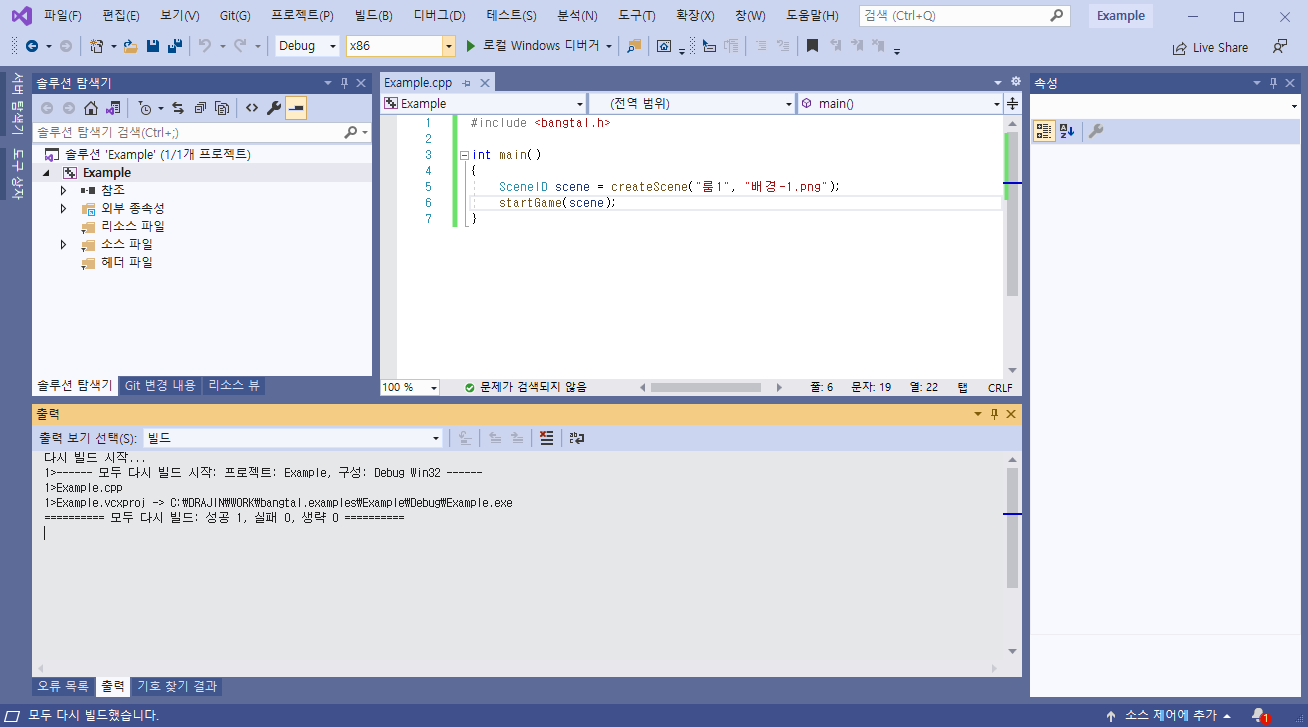
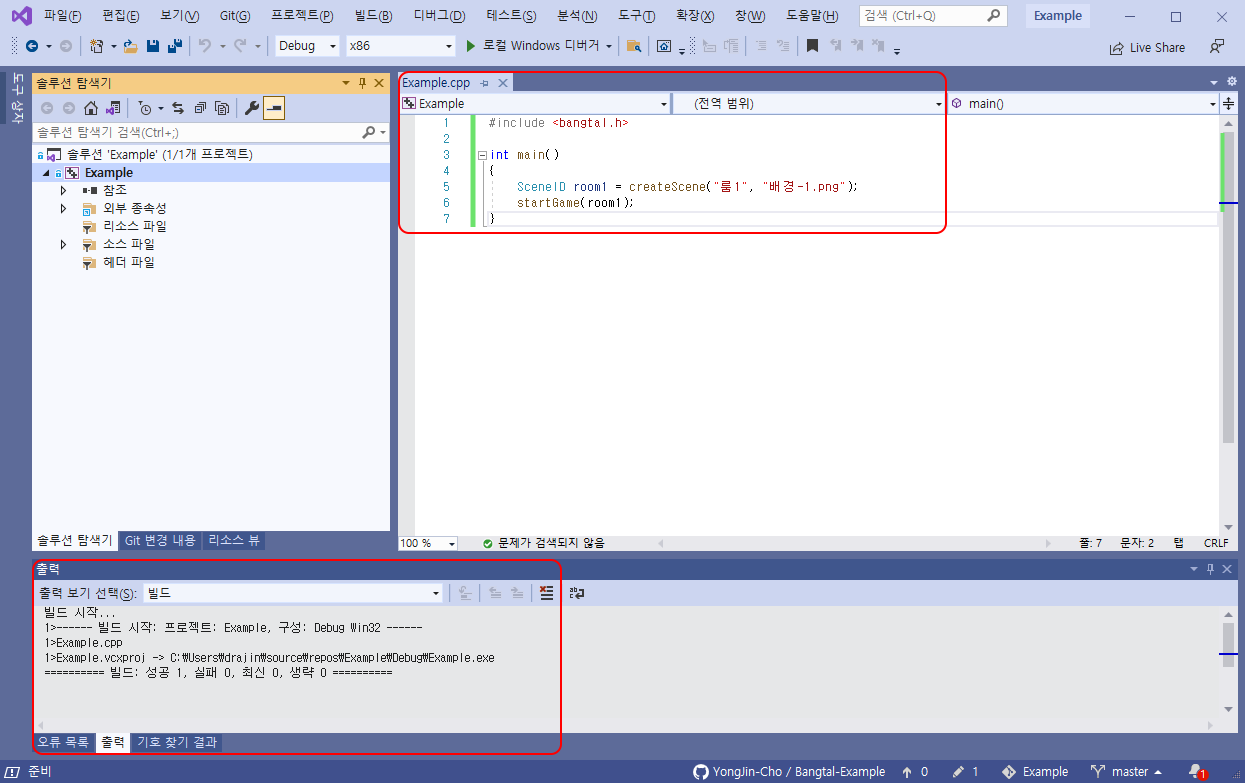
Visual Studio와 GitHub 연동하기 포스트

diff --git a/index.html b/index.html
@@ -1,6 +1,7 @@
 ---
 layout: splash
-permalink: /
+#permalink: /
+#permalink가 설정되어 있으면 paginate가 동작하지 않는다.
 header:
   overlay_color: "#000066" # "#5e616c"
   overlay_image: /assets/images/home_background.png
@@ -52,3 +53,35 @@ quick_guides:
     url: "/docs/example-tetris/"
 ---
 {% include feature_row id="quick_guides" %}
+
+
+
+<!-- This loops through the paginated posts -->
+{% for post in paginator.posts %}
+  <h1><a href="{{ post.url }}">{{ post.title }}</a></h1>
+  <p class="author">
+    <span class="date">{{ post.date }}</span>
+  </p>
+  <div class="content">
+    {{ post.content }}
+  </div>
+{% endfor %}
+
+<!-- Pagination links -->
+<div class="pagination">
+  {% if paginator.previous_page %}
+    <a href="{{ paginator.previous_page_path }}" class="previous">
+      Previous
+    </a>
+  {% else %}
+    <span class="previous">Previous</span>
+  {% endif %}
+  <span class="page_number ">
+    Page: {{ paginator.page }} of {{ paginator.total_pages }}
+  </span>
+  {% if paginator.next_page %}
+    <a href="{{ paginator.next_page_path }}" class="next">Next</a>
+  {% else %}
+    <span class="next ">Next</span>
+  {% endif %}
+</div>

diff --git a/_posts/2021-03-03-visual-studio-github-connect.md b/_posts/2021-03-03-visual-studio-github-connect.md
@@ -1,0 +1,83 @@
+---
+title: "Visual Studio에서 GitHub 연동하기"
+permalink: /posts/visual-studio-github-connect/
+date: "2021-03-03 20:20:16 +0900"
+categories:
+  - git
+---
+Visual Studio에서 GitHub와 연동해서 저장소를 관리할 수 있다.
+
+## 프로젝트 생성하기
+Visual Studio의 프로젝트 템플릿에서 콘솔 앱을 선택해서 프로젝트를 생성한다.
+<figure>
+  <a href="/assets/images/visual_studio_create_project.png">
+  <img src="/assets/images/visual_studio_create_project.png" alt="콘솔 앱으로 프로젝트 생성하기"></a>
+</figure>
+
+## GitHub와 연결하기
+Visual Studio 오른쪽 아래 "소스 제어에 추가" 메뉴가 있다. "Git(G)"을 선택해서 Git 서비스에 연동한다.
+<figure>
+  <a href="/assets/images/visual_studio_github1.png">
+  <img src="/assets/images/visual_studio_github1.png" alt="GitHub 연동하기1"></a>
+</figure>
+
+"Publish to GitHub"를 선택해서 GitHub 저장소를 생성한다.
+GitHub 계정이 연결되지 않은 경우에는 GitHub 계정을 연동해야 한다.
+물론 계정이 없으면 계정을 생성해야 한다. [http://github.com](http://github.com)
+<figure>
+  <a href="/assets/images/visual_studio_github2.png">
+  <img src="/assets/images/visual_studio_github2.png" alt="GitHub 연동하기2"></a>
+</figure>
+
+게시(생성)할 저장소(Repository) 정보를 입력한다.
+그림은 GitHub 사이트의 Yongjin-Cho라는 계정에 Bangtal-Example이라는 저장소를 생성하고
+게시한다. GitHub 링크도 확인한다.
+<figure>
+  <a href="/assets/images/visual_studio_github3.png">
+  <img src="/assets/images/visual_studio_github3.png" alt="GitHub 연동하기3"></a>
+</figure>
+
+브라우저로 저장소가 생성되었음을 확인한다.
+생성된 과제 파일이 GitHub에 잘 올라갔음을 확인할 수 있다.
+<figure>
+  <a href="/assets/images/visual_studio_github4.png">
+  <img src="/assets/images/visual_studio_github4.png" alt="GitHub 연동하기4"></a>
+</figure>
+
+## 변경 사항 동기화 하기
+
+이제 프로그램을 개발한다. "배경-1.png"로 "룸1"이라는 장면을 생성한다.
+그리고, 게임을 시작한다. 빌드에도 문제가 없음을 알 수 있다.
+<figure>
+  <a href="/assets/images/visual_studio_program.png">
+  <img src="/assets/images/visual_studio_program.png" alt=""></a>
+</figure>
+
+Git 변경 내용 탭에서 변경 내용을 확인한다. "Example.cpp"는 M(변경) 되었고,
+"배경-1.png"는 A(추가) 되었음을 알 수 있다. 변경된 내용에 대한 설명을 입력한다.
+그리고, "모두 커밋" 명령으로 저장을 준비한다.
+<figure>
+  <a href="/assets/images/visual_studio_github5.png">
+  <img src="/assets/images/visual_studio_github5.png" alt="커밋 생성하기"></a>
+</figure>
+
+변경 사항을 저장소에 반영하기 위한 커밋(Commit)이 생성되었음을 알 수 있다.
+커밋을 클릭하면 상세 내용을 확인할 수 있다.
+위 방향의 버튼을 클릭하면 커밋 내용을 서버로 푸시(Push)할 수 있다.
+<figure>
+  <a href="/assets/images/visual_studio_github6.png">
+  <img src="/assets/images/visual_studio_github6.png" alt="커밋 확인하기"></a>
+</figure>
+
+GitHub 저장소로 푸시되었음을 확인할 수 있다.
+<figure>
+  <a href="/assets/images/visual_studio_github7.png">
+  <img src="/assets/images/visual_studio_github7.png" alt="푸시 확인하기"></a>
+</figure>
+
+브라우저로 저장소가 갱신되었음을 확인한다. "Example.cpp"가 수정되었으며,
+"배경-1.png" 파일이 추가되었음을 알 수 있다.
+<figure>
+  <a href="/assets/images/visual_studio_github8.png">
+  <img src="/assets/images/visual_studio_github8.png" alt="푸시 확인하기"></a>
+</figure>
